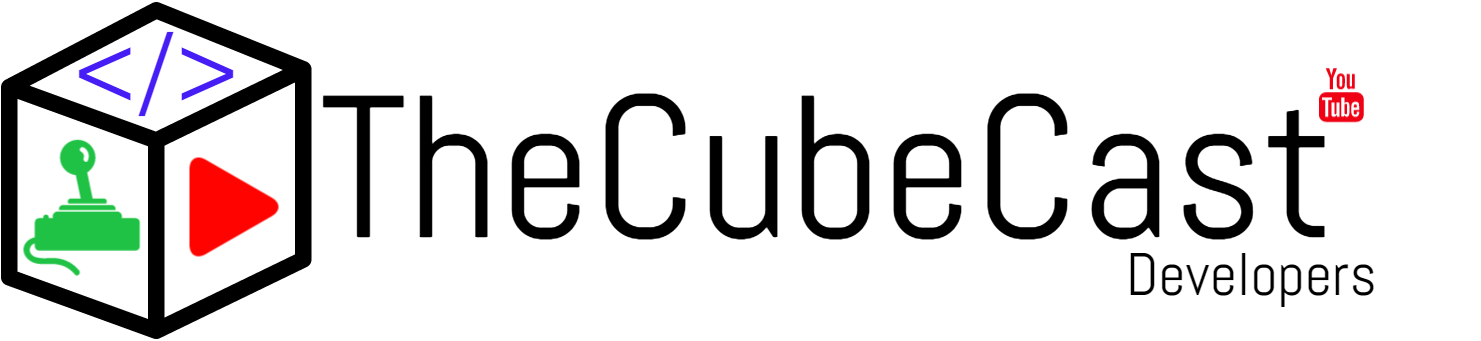
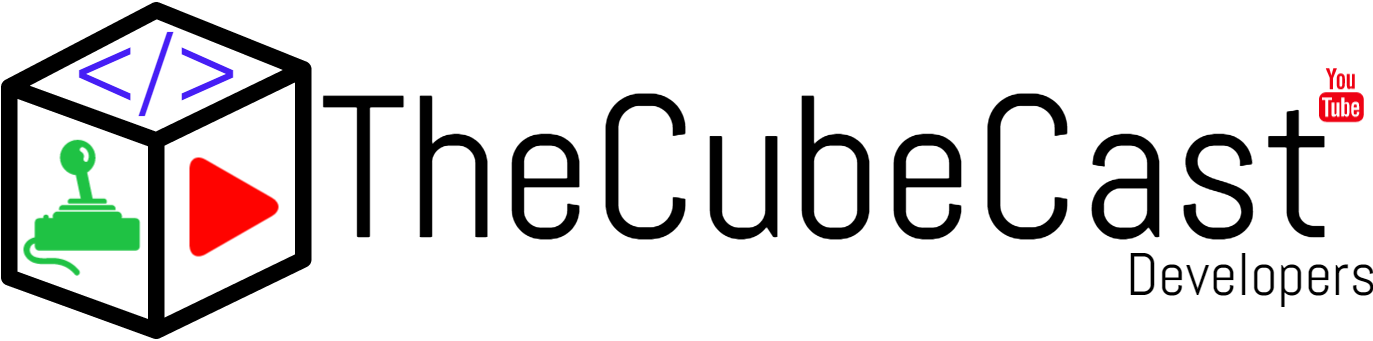
IntroState Update
Fixed Logo Image

diff --git a/src/com/thecubecast/ReEngine/GameStates/IntroState.java b/src/com/thecubecast/ReEngine/GameStates/IntroState.java
@@ -52,9 +52,14 @@ public class IntroState extends GameState {
 	}
 	
 	public void draw(Graphics2D g, int width, int height) {
+		int SizeW = 1373;
+		int SizeH = 341;
+		int PosX = width/2 - SizeW/2;
+		int PoxY = height/2 - SizeH/2;
+		
 		g.setColor(Color.WHITE);
 		g.fillRect(0, 0, width, height);
-		g.drawImage(gsm.Render.Images[00], width/3, height/2, 1481/2, 341/2, null);
+		g.drawImage(gsm.Render.Images[00], PosX, PoxY, SizeW, SizeH, null);
 		g.setColor(new Color(0, 0, 0, alpha));
 		g.fillRect(0, 0, width, height);
 	}

diff --git a/src/com/thecubecast/ReEngine/Window/Main.java b/src/com/thecubecast/ReEngine/Window/Main.java
@@ -4,7 +4,7 @@
 
 package com.thecubecast.ReEngine.Window;
 
-import java.awt.BorderLayout;
+import java.awt.BorderLayout; 
 
 import javax.swing.*;
 
